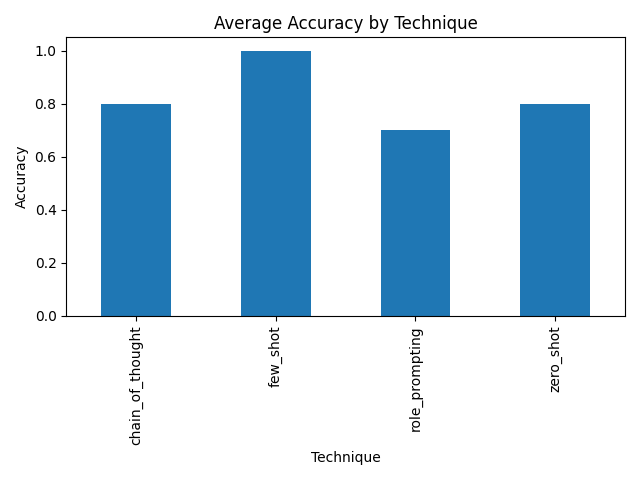
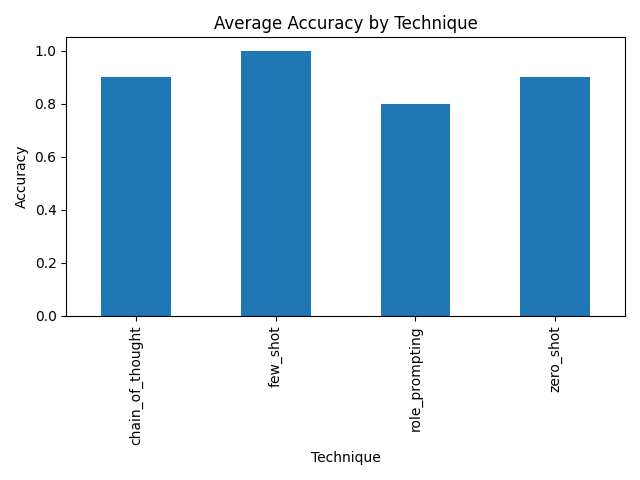
Finalizacao do projeto

Changed region(s): [[0.8125, 0.1562, 0.9375, 0.2188], [0.5938, 0.2188, 0.7188, 0.2812], [0.1562, 0.1562, 0.2812, 0.2188]]

diff --git a/README.md b/README.md
@@ -1,24 +1,1 @@
-# 🧠 Prompt Toolkit - FIAP Checkpoint 02
-
-Projeto desenvolvido em Python para comparação de técnicas de Prompt Engineering usando LLM (Ollama + Llama3).
-
----
-
-## 📌 Objetivo
-
-O objetivo do projeto é construir um toolkit que:
-
-- Aplica 4 técnicas de prompt engineering:
-  - Zero-Shot
-  - Few-Shot
-  - Chain of Thought (CoT)
-  - Role Prompting
-
-- Compara desempenho entre técnicas
-- Mede:
-  - Acurácia das respostas
-  - Tempo de resposta
-  - Consistência
-
-- Gera relatório automático com CSV e gráficos
 